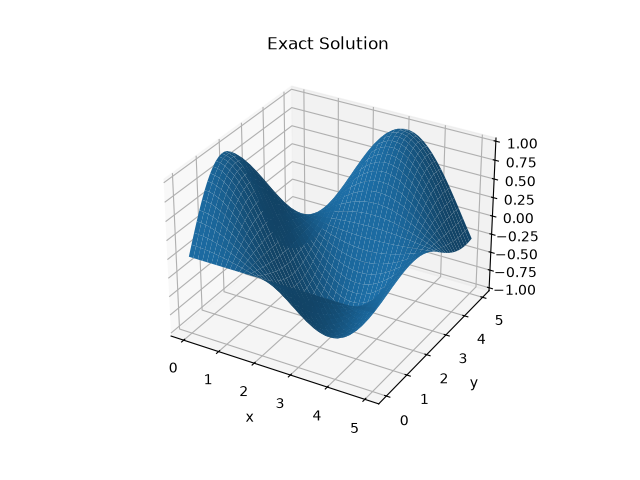
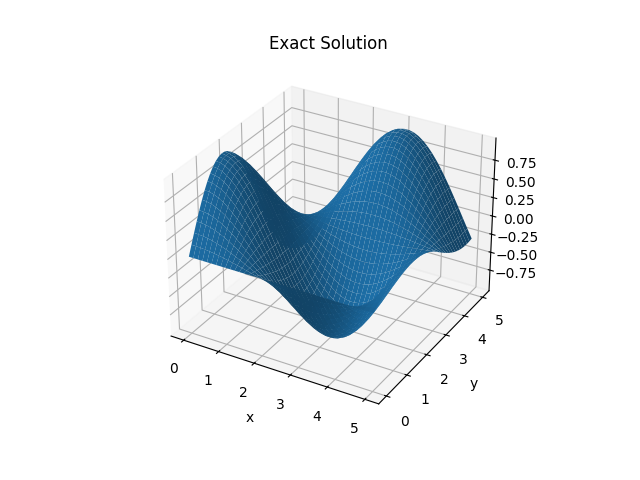
Completed problem 4 code.

diff --git a/Scripts/problem_0_4.py b/Scripts/problem_0_4.py
@@ -9,15 +9,49 @@ def f(x,y): # The forcing function
     return -2*np.sin(y)*np.cos(x)
 
 def finiteDifferencePoisson(a, b, n, bc="dirichlet", returnGrid = True):
-    if bc == "Neumann":
-        print("The script isn't ready to handle Neumann Boundary conditions yet")
-        return 0
+    if bc == "neumann":
+        # This method uses forward + backward differences to enforce the neumann conditions... this will mean the solution to the PDE will be O(h)
+        A = np.eye(n**2)
+        h = (b-a)/(n-1)
+        x = np.linspace(a-h, b+h, n)
+        y = np.linspace(a-h, b+h, n) # this line in unnecessary but makes my code a bit easier to read
+        xx, yy = np.meshgrid(x,y)
+        b_hat_inter = f(xx,yy)
+        b_hat = b_hat_inter.reshape((n**2,))
+        for i in range(n):
+            for j in range(n):
+                k = n*i+j
+                # leave A unmodified (we want an identity row) and update b_hat to enforce the boundary condition along the boundaries
+                if i == 0: # u_y(x,0)=0, forward difference
+                    A[k,k] = -1/h
+                    A[k,k+n] = 1/h
+                    b_hat[k] = 0
+                elif j == 0: # u_x(0,y)=0, forward difference
+                    A[k,k] = -1/h
+                    A[k,k+1] = 1/h
+                    b_hat[k] = 0
+                elif i == n-1: # u_y(x,5)=cos5*cosx, backward difference
+                    A[k,k] = 1/h
+                    A[k,k-n] = -1/h
+                    b_hat[k] = np.cos(5)*np.cos(x[j])
+                elif j == n-1 : #u_x(5,y) = cos5*cosx, backward difference
+                    A[k,k] = 1/h
+                    A[k,k-1] = -1/h
+                    b_hat[k] = np.cos(y[i])*np.cos(5)
+                # Finite difference formula everywhere else
+                else:
+                    A[k,k] = -4/h**2
+                    A[k,k-1] = 1/h**2
+                    A[k,k+1] = 1/h**2
+                    A[k,k-n] = 1/h**2
+                    A[k,k+n] = 1/h**2
+        print(f"the condition number of A is {np.linalg.cond(A)}")
     else:
         A = np.eye(n**2)
+        h = (b-a)/(n-1)
         x = np.linspace(a, b, n)
         y = np.linspace(a, b, n) # this line in unnecessary but makes my code a bit easier to read
         xx, yy = np.meshgrid(x,y)
-        h = (b-a)/(n-1)
         b_hat_inter = f(xx,yy)
         b_hat = b_hat_inter.reshape((n**2,))
         for i in range(n):
@@ -94,6 +128,17 @@ def main():
     plt.loglog(meshes, L_inf, label = "L_inf")
     plt.legend()
     plt.savefig('Images\\problem4_3.png')
+
+    xx,yy,u_neumann = finiteDifferencePoisson(a, b, n, bc="neumann") # the condition number of A is 1.174812990360801e+17 for one n=40
+
+    fig3 = plt.figure(4)
+    ax4 = plt.axes(projection='3d')
+    ax4.plot_surface(xx,yy,u_neumann)
+    ax4.set_xlabel("x")
+    ax4.set_ylabel("y")
+    ax4.set_title("Neummann Numerical Solution")
+    plt.savefig("Images\\problem4_4.png")
+
 
 if __name__ == "__main__":
     main()
